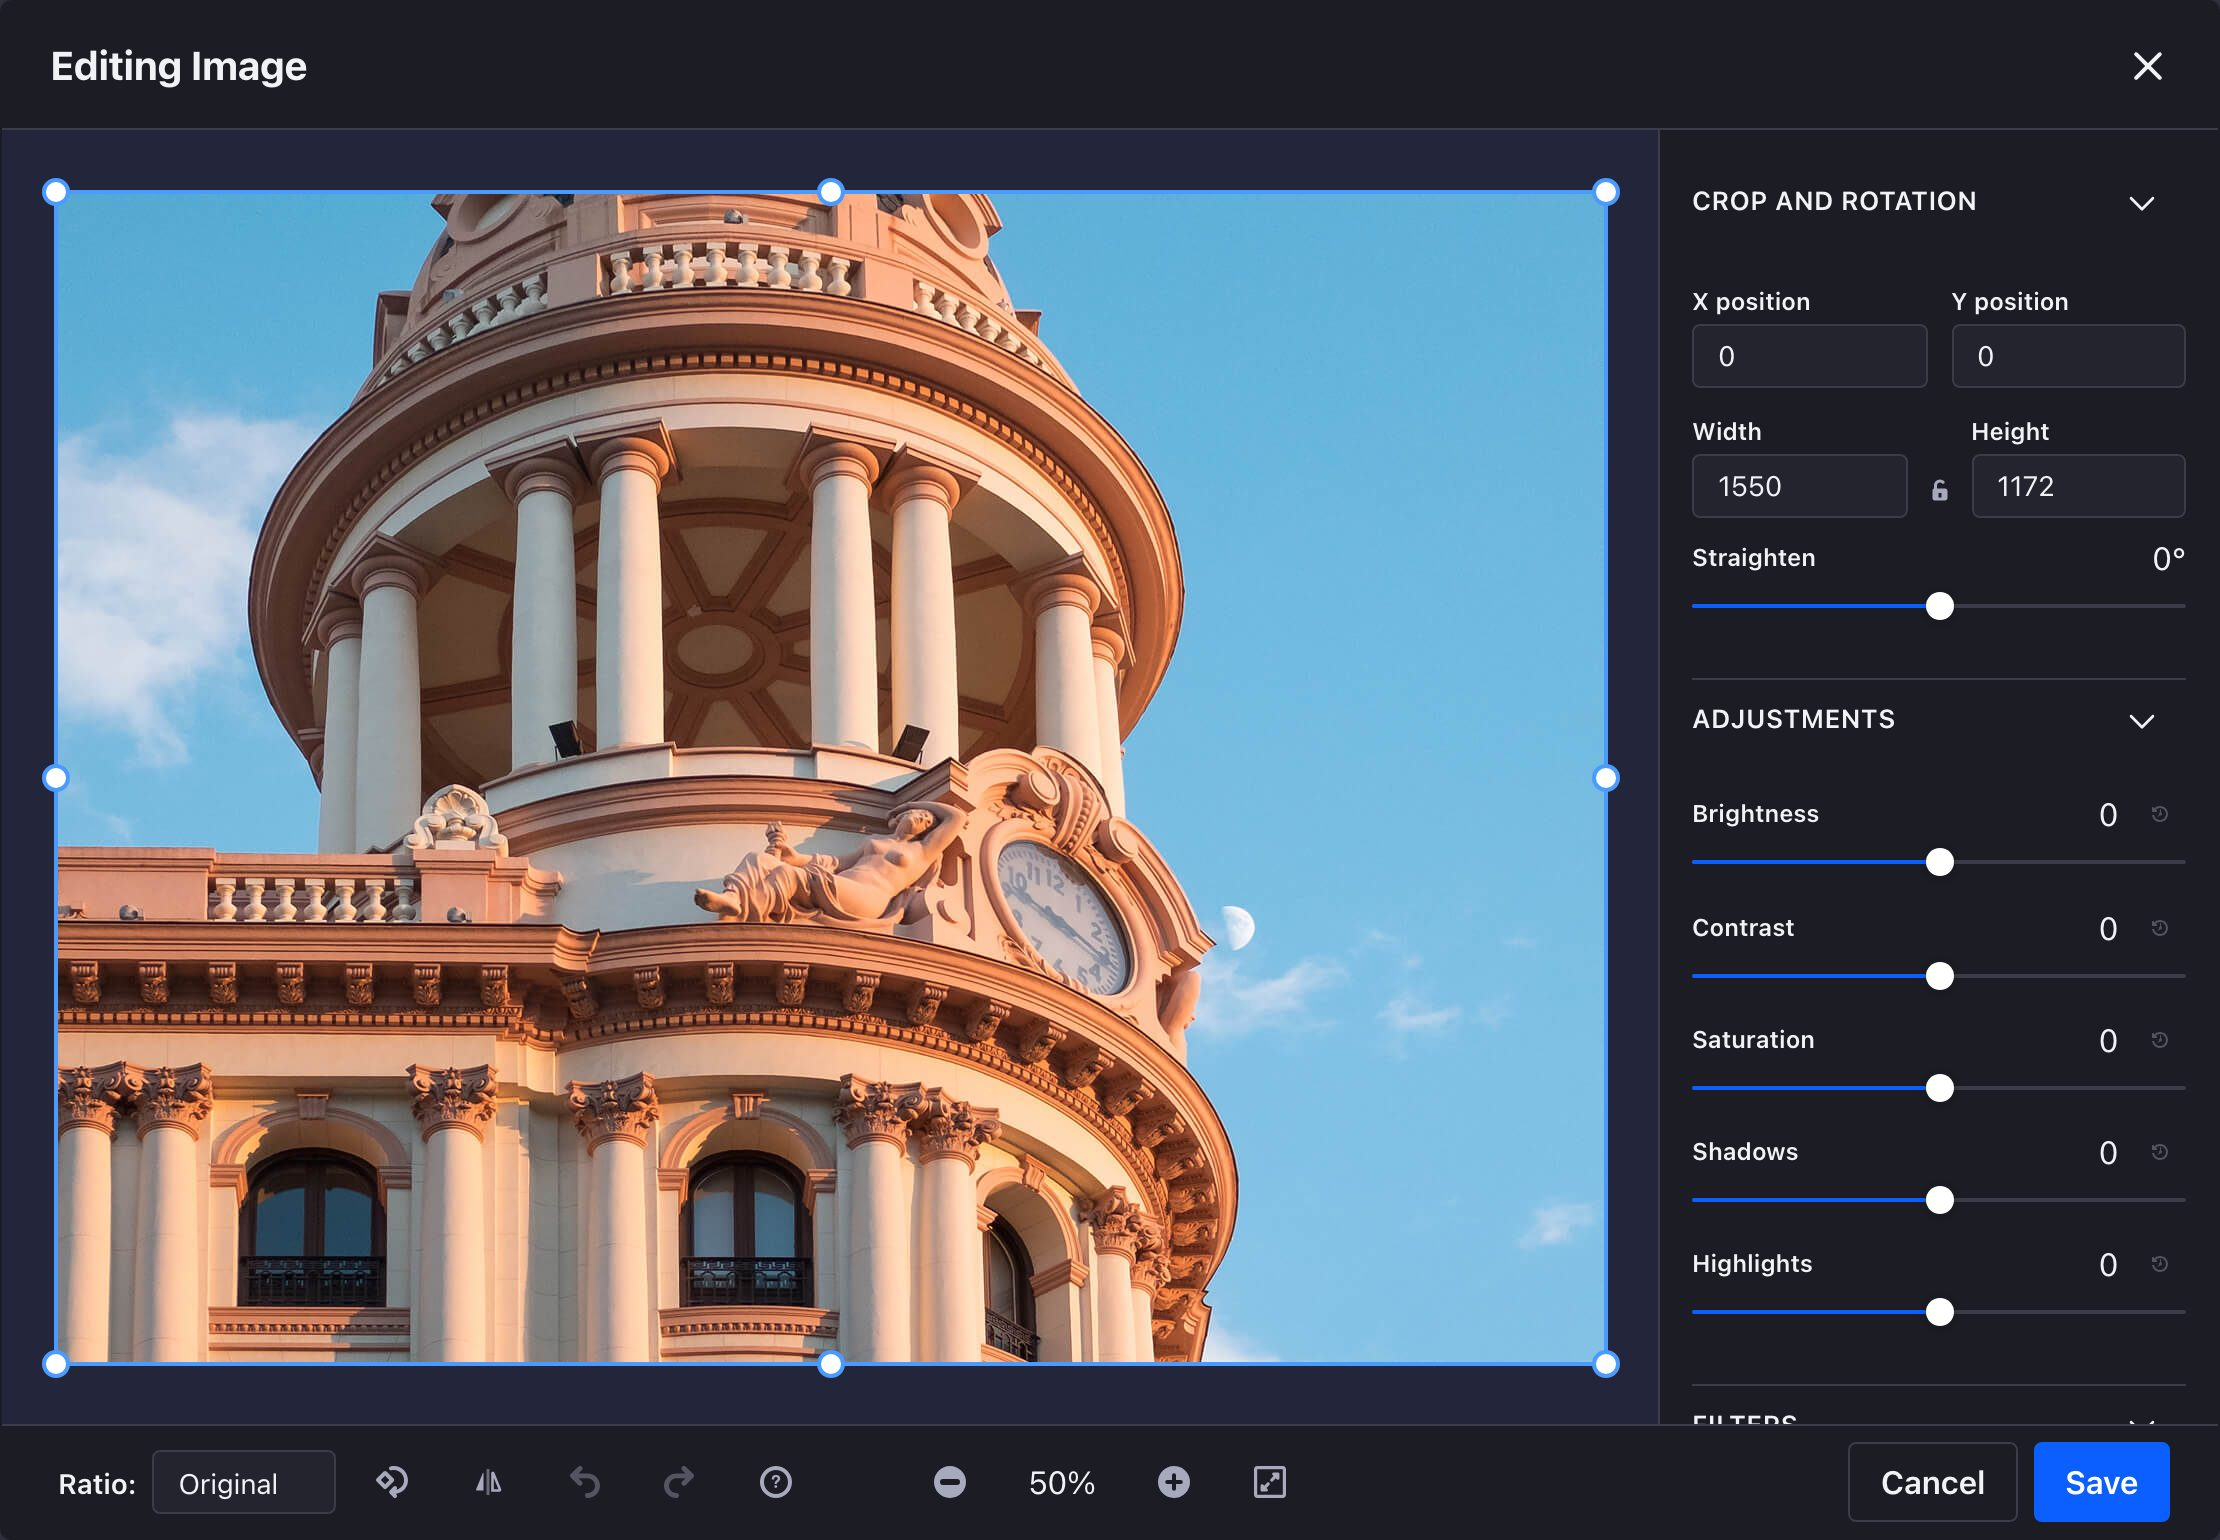
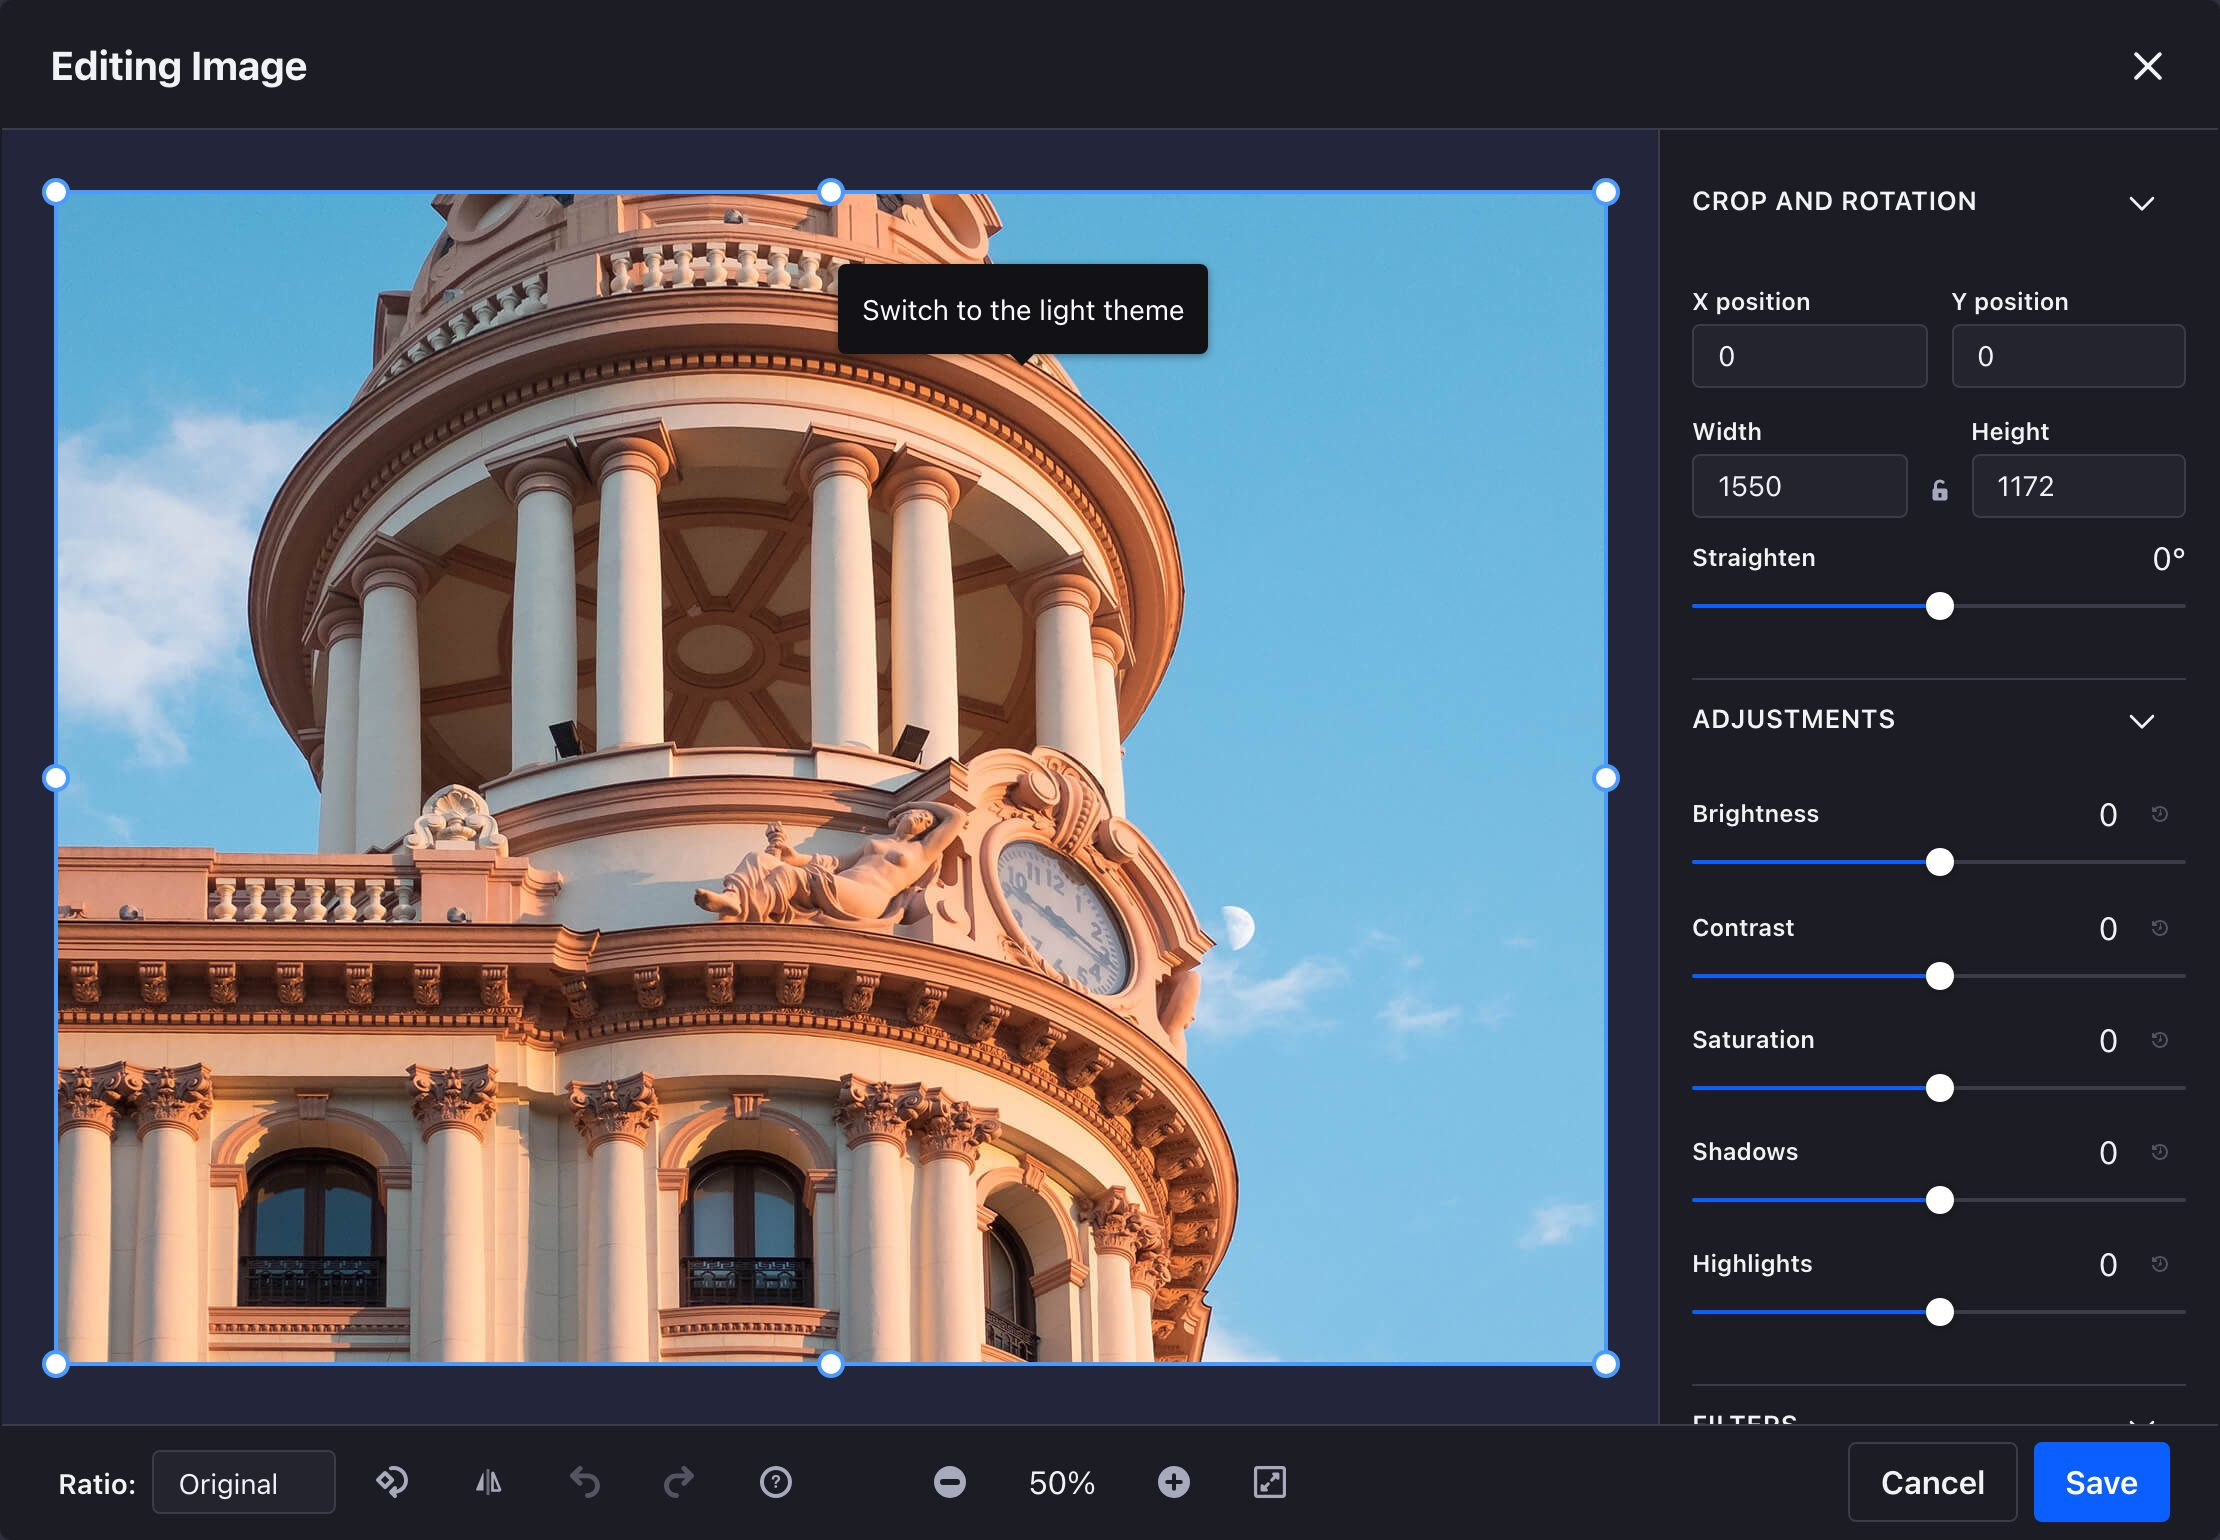
Keep a picture in proportion unless you say otherwise

Changed region(s): [[0.373, 0.1558, 0.5595, 0.2494]]

diff --git a/src/components/LayerProperties.tsx b/src/components/LayerProperties.tsx
@@ -3,7 +3,9 @@
  * SPDX-License-Identifier: LGPL-2.1-or-later OR LicenseRef-Liferay-DXP-EULA-2.0.0-2023-06
  */
 
+import {ClayButtonWithIcon} from '@clayui/button';
 import ClayForm, {ClaySelectWithOption} from '@clayui/form';
+import {useState} from 'react';
 
 import {t} from '../i18n';
 import {DEFAULT_BORDER_COLOR, overlayLabel} from '../imaging/overlayShapes';
@@ -33,10 +35,45 @@ interface LayerPropertiesProps {
 export function LayerProperties({dispatch, onAnnounce, overlay}: LayerPropertiesProps) {
 	const label = overlayLabel(overlay);
 
+	/*
+	 * A picture has proportions of its own, and stretching it is rarely
+	 * what was meant, so it arrives with them locked. A rectangle, a
+	 * circle and a redaction are shapes rather than pictures, so they
+	 * arrive free, with the same padlock available.
+	 */
+
+	const [proportional, setProportional] = useState(overlay.kind === 'image');
+
 	const commitPatch = (patch: Partial<Overlay>) => {
 		dispatch({id: overlay.id, patch, type: 'update-overlay'});
 
 		onAnnounce(t('layer-updated', label));
+	};
+
+	/**
+	 * With the padlock on, the side that was not typed follows, so nobody
+	 * has to work out what the other number should be. The ratio comes
+	 * from the box as it stands, which is what the picture arrived with.
+	 */
+	const commitSize = (side: 'height' | 'width', value: number) => {
+		if (!proportional || !isBoxOverlay(overlay)) {
+			commitPatch({[side]: value});
+
+			return;
+		}
+
+		const ratio = overlay.width / overlay.height;
+
+		const other = Math.max(
+			Math.round(side === 'width' ? value / ratio : value * ratio),
+			1
+		);
+
+		commitPatch(
+			side === 'width'
+				? {height: other, width: value}
+				: {height: value, width: other}
+		);
 	};
 
 	return (
@@ -208,21 +245,45 @@ export function LayerProperties({dispatch, onAnnounce, overlay}: LayerProperties
 				)}
 
 				{isBoxOverlay(overlay) && (
-					<>
+					<div className="editor-crop-size-row editor-layer-size-row">
 						<NumberField
 							id="layer-prop-width"
 							label={t('width')}
-							onCommit={(width) => commitPatch({width})}
+							onCommit={(width) => commitSize('width', width)}
 							value={overlay.width}
+						/>
+
+						<ClayButtonWithIcon
+							aria-label={t('aspect-lock')}
+							aria-pressed={proportional}
+							borderless
+							className="editor-aspect-lock"
+							displayType="secondary"
+							onClick={() => {
+								setProportional((locked) => {
+									onAnnounce(
+										t(
+											locked
+												? 'aspect-ratio-unlocked'
+												: 'aspect-ratio-locked'
+										)
+									);
+
+									return !locked;
+								});
+							}}
+							size="xs"
+							symbol={proportional ? 'lock' : 'unlock'}
+							title={t('aspect-lock')}
 						/>
 
 						<NumberField
 							id="layer-prop-height"
 							label={t('height')}
-							onCommit={(height) => commitPatch({height})}
+							onCommit={(height) => commitSize('height', height)}
 							value={overlay.height}
 						/>
-					</>
+					</div>
 				)}
 
 				{hasBorder(overlay) && (

diff --git a/e2e/image-annotation.spec.ts b/e2e/image-annotation.spec.ts
@@ -74,11 +74,41 @@ test('brings a picture in as an annotation', async ({page}) => {
 	await expect(overlay).toHaveAttribute('aria-label', 'Liferay badge');
 
 	// One more box: the width and height fields drive it like any other.
+	// A picture arrives with its proportions locked, so the side that was
+	// not typed follows instead of leaving the reader to do the division.
+
+	const padlock = page.locator(
+		'.editor-layer-size-row .editor-aspect-lock'
+	);
+
+	await expect(padlock).toHaveAttribute('aria-pressed', 'true');
 
 	await page.locator('#layer-prop-width').fill('300');
 	await page.locator('#layer-prop-width').press('Enter');
 
 	await expect(picture).toHaveAttribute('width', '300');
+	await expect(picture).toHaveAttribute('height', '150');
+
+	// Typing a height works the same way round.
+
+	await page.locator('#layer-prop-height').fill('100');
+	await page.locator('#layer-prop-height').press('Enter');
+
+	await expect(picture).toHaveAttribute('width', '200');
+
+	// Unlocked, the two sides are independent again.
+
+	await padlock.click();
+
+	await expect(page.getByRole('status')).toContainText(
+		'Aspect ratio unlocked'
+	);
+
+	await page.locator('#layer-prop-width').fill('320');
+	await page.locator('#layer-prop-width').press('Enter');
+
+	await expect(picture).toHaveAttribute('width', '320');
+	await expect(picture).toHaveAttribute('height', '100');
 
 	const results = await new AxeBuilder({page})
 		.include('.modal-content')

diff --git a/src/components/Annotations.a11y.test.tsx b/src/components/Annotations.a11y.test.tsx
@@ -355,6 +355,43 @@ describe('Annotations, filters, and layers', () => {
 		expect(await axe(container)).toHaveNoViolations();
 	});
 
+	it('leaves a shape free to stretch, and locks on request', () => {
+		render(<AnnotationHarness />);
+
+		fireEvent.click(screen.getByRole('button', {name: 'Add rectangle'}));
+
+		const padlock = screen.getByRole('button', {
+			name: 'Lock aspect ratio',
+		});
+
+		// A rectangle is a shape rather than a picture, so it arrives free.
+
+		expect(padlock).toHaveAttribute('aria-pressed', 'false');
+
+		const width = screen.getByLabelText('Width') as HTMLInputElement;
+		const height = screen.getByLabelText('Height') as HTMLInputElement;
+
+		const stretched = Number(height.value);
+
+		fireEvent.change(width, {target: {value: '200'}});
+		fireEvent.keyDown(width, {key: 'Enter'});
+
+		expect(Number(height.value)).toBe(stretched);
+
+		// Locked, the side that was not typed follows.
+
+		fireEvent.click(padlock);
+
+		expect(padlock).toHaveAttribute('aria-pressed', 'true');
+
+		const ratio = 200 / stretched;
+
+		fireEvent.change(width, {target: {value: '100'}});
+		fireEvent.keyDown(width, {key: 'Enter'});
+
+		expect(Number(height.value)).toBe(Math.round(100 / ratio));
+	});
+
 	it('syncs selection between the stage and the layers panel', () => {
 		const {container} = render(<AnnotationHarness />);
 

diff --git a/website/index.html b/website/index.html
@@ -393,6 +393,10 @@
 									annotation
 								</li>
 								<li>
+									Proportions locked on arrival, with a padlock every box
+									annotation can use, so nobody does the division
+								</li>
+								<li>
 									Composited into the export at full resolution, not
 									pasted on afterwards
 								</li>
@@ -831,7 +835,7 @@
 									width="560"
 									height="874"
 									style="max-width: min(100%, 280px)"
-									alt="The Layers panel with a layer called watermark selected, showing an Image description field reading watermark, and numeric fields for position, opacity, rotation, width and height."
+									alt="The Layers panel with a layer called watermark selected, showing an Image description field reading watermark, numeric fields for position, opacity and rotation, and a width and height pair with a blue padlock between them."
 								/>
 							</div>
 						</figure>

diff --git a/src/styles.css b/src/styles.css
@@ -607,6 +607,12 @@
 	flex: 1;
 }
 
+/* The same row inside the two-column properties grid, spanning it. */
+
+.editor-layer-size-row {
+	grid-column: 1 / -1;
+}
+
 .editor-aspect-lock {
 	align-self: flex-end;
 	margin-bottom: 0.625rem;

diff --git a/README.md b/README.md
@@ -21,7 +21,7 @@ The editor is **parametric and declarative**:
 - **Redactions** pixelate an area for real: tiny downsampled copies of the image (four block sizes, small by default) are prepared once at load time and revealed through a clip, scaled back up with nearest-neighbor, and passed through the same color pipeline as the image so the mosaic matches what is on screen. They behave exactly like a rectangle otherwise, and the mosaic stays locked to the photo even when the block is rotated.
 - **Small annotations keep a full-size target**: whatever an annotation is painted at, the area that can be clicked or reached never falls below 24 by 24 screen pixels, measured in screen space so it holds at any zoom.
 - **Rectangles and circles take an optional border**, off until a width is set, with its own colour.
-- **A picture of your own becomes an annotation**: pick a PNG and it lands as one more layer, named after the file, moved and resized by the same handles and fields, and composited into the export. It travels in the edit state as a data URL rather than an object URL, because the export rasterizes its SVG through an `img`, which cannot load `blob:` subresources. Its description is editable, since a file name names a file, not a picture.
+- **A picture of your own becomes an annotation**: pick a PNG and it lands as one more layer, named after the file, moved and resized by the same handles and fields, and composited into the export. Its proportions arrive locked, with a padlock beside the width and height that any box annotation can use, because keeping a picture in proportion should not require doing the division yourself. It travels in the edit state as a data URL rather than an object URL, because the export rasterizes its SVG through an `img`, which cannot load `blob:` subresources. Its description is editable, since a file name names a file, not a picture.
 - **Frames are intent, not geometry**: a kind, a colour, a weight and an offset, the last two as percentages of the crop's shorter side. Nothing is stored in image coordinates, so the next crop reframes the picture instead of stranding a border where the old edges were, and the same numbers hold on a 72-pixel card, on the stage at any zoom, and in a full-resolution export. A checkbox decides whether the frame is drawn over the annotations or under them.
 - Selected annotations expose **on-stage resize and rotate handles** (proportional by default, Shift for free rectangle resize or 15-degree rotation snaps). They are a pointer-only affordance: the layer properties panel is the accessible, keyboard-first equivalent for the same operations.
 - The **filter gallery** is a two-column card grid whose radios are visually hidden but still real radios, so it keeps the group semantics and arrow-key behaviour; selection is shown with a ring, a bold label and a check badge, never by colour alone. Cards paint from a tiny bitmap prepared at load time, so adding presets costs nothing at render time.
